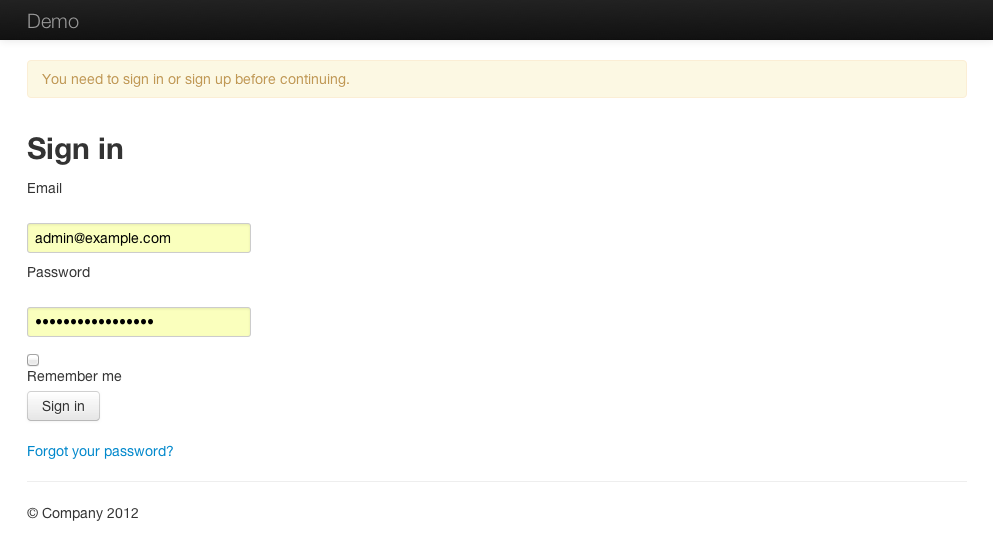
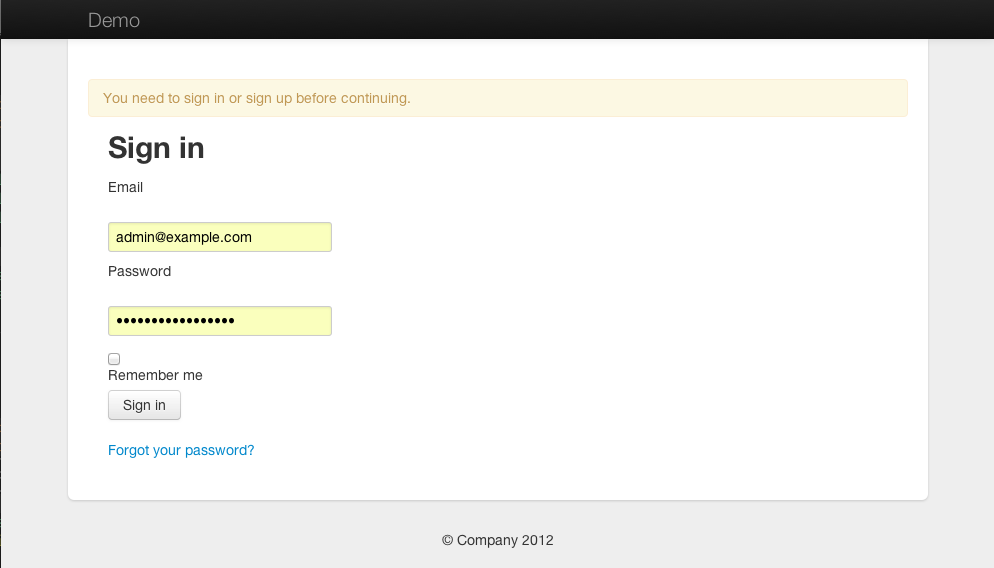
sync

diff --git a/replace/bootstrap_and_overrides.css.less b/replace/bootstrap_and_overrides.css.less
@@ -1,0 +1,81 @@
+@import "twitter/bootstrap/bootstrap";
+
+// Set the correct sprite paths
+@iconSpritePath: asset-path('twitter/bootstrap/glyphicons-halflings.png');
+@iconWhiteSpritePath: asset-path('twitter/bootstrap/glyphicons-halflings-white.png');
+
+// Set the Font Awesome (Font Awesome is default. You can disable by commenting below lines)
+// Note: If you use asset_path() here, your compiled boostrap_and_overrides.css will not 
+//       have the proper paths. So for now we use the absolute path.
+@fontAwesomeEotPath: '/assets/fontawesome-webfont.eot';
+@fontAwesomeWoffPath: '/assets/fontawesome-webfont.woff';
+@fontAwesomeTtfPath: '/assets/fontawesome-webfont.ttf';
+@fontAwesomeSvgPath: '/assets/fontawesome-webfont.svg';
+
+// Font Awesome
+@import "fontawesome";
+
+// Your custom LESS stylesheets goes here
+//
+// Since bootstrap was imported above you have access to its mixins which
+// you may use and inherit here
+//
+// If you'd like to override bootstrap's own variables, you can do so here as well
+// See http://twitter.github.com/bootstrap/less.html for their names and documentation
+//
+// Example:
+// @linkColor: #ff0000;
+html, body {
+  background-color: #eeeeee; }
+
+body {
+  padding-top: 40px; }
+
+.container > footer p {
+  text-align: center; }
+
+.navbar-static-top .container, .navbar-fixed-top .container, .navbar-fixed-bottom .container {
+  width: 820px;
+}
+
+.page-header {
+  background: whitesmoke;
+  margin: -40px -20px 20px -20px;
+  padding: 10px 0 10px 20px;
+  border-bottom: 1px solid #DDDDDD;
+ }
+
+.container {
+  width: 820px; }
+
+.content {
+  background-color: white;
+  padding: 40px;
+  margin: 0 -20px;
+  -webkit-border-radius: 0 0 6px 6px;
+  -moz-border-radius: 0 0 6px 6px;
+  border-radius: 0 0 6px 6px;
+  -webkit-box-shadow: 0 1px 2px rgba(0, 0, 0, 0.15);
+  -moz-box-shadow: 0 1px 2px rgba(0, 0, 0, 0.15);
+  box-shadow: 0 1px 2px rgba(0, 0, 0, 0.15); }
+
+.content .span10, .content .span4 {
+  min-height: 500px; }
+.content .span4 {
+  margin-left: 10px;
+  padding-left: 9px;
+  border-left: 1px solid #eeeeee; }
+
+.alert-message {
+  margin-left: 20px; }
+
+.alert {
+  margin: 0px -20px;
+}
+
+.row-actions {
+  text-align: right; }
+
+footer {
+  margin-top: 30px;
+}

diff --git a/admin.rb b/admin.rb
@@ -122,9 +122,10 @@ File.open(file_name, 'w') {|file| file.puts ret}
 
 # apply css
 append_file 'app/assets/stylesheets/application.css', <<-CODE
-.span3 .sidebar-nav { display: none; }
 input, textarea { width: auto; }
 CODE
+
+run 'cd app/assets/stylesheets; wget -N https://raw.github.com/pct/rails3-template/master/replace/bootstrap_and_overrides.css.less'
 
 # fetch scaffold template
 run 'mkdir -p lib/templates/erb/scaffold'
